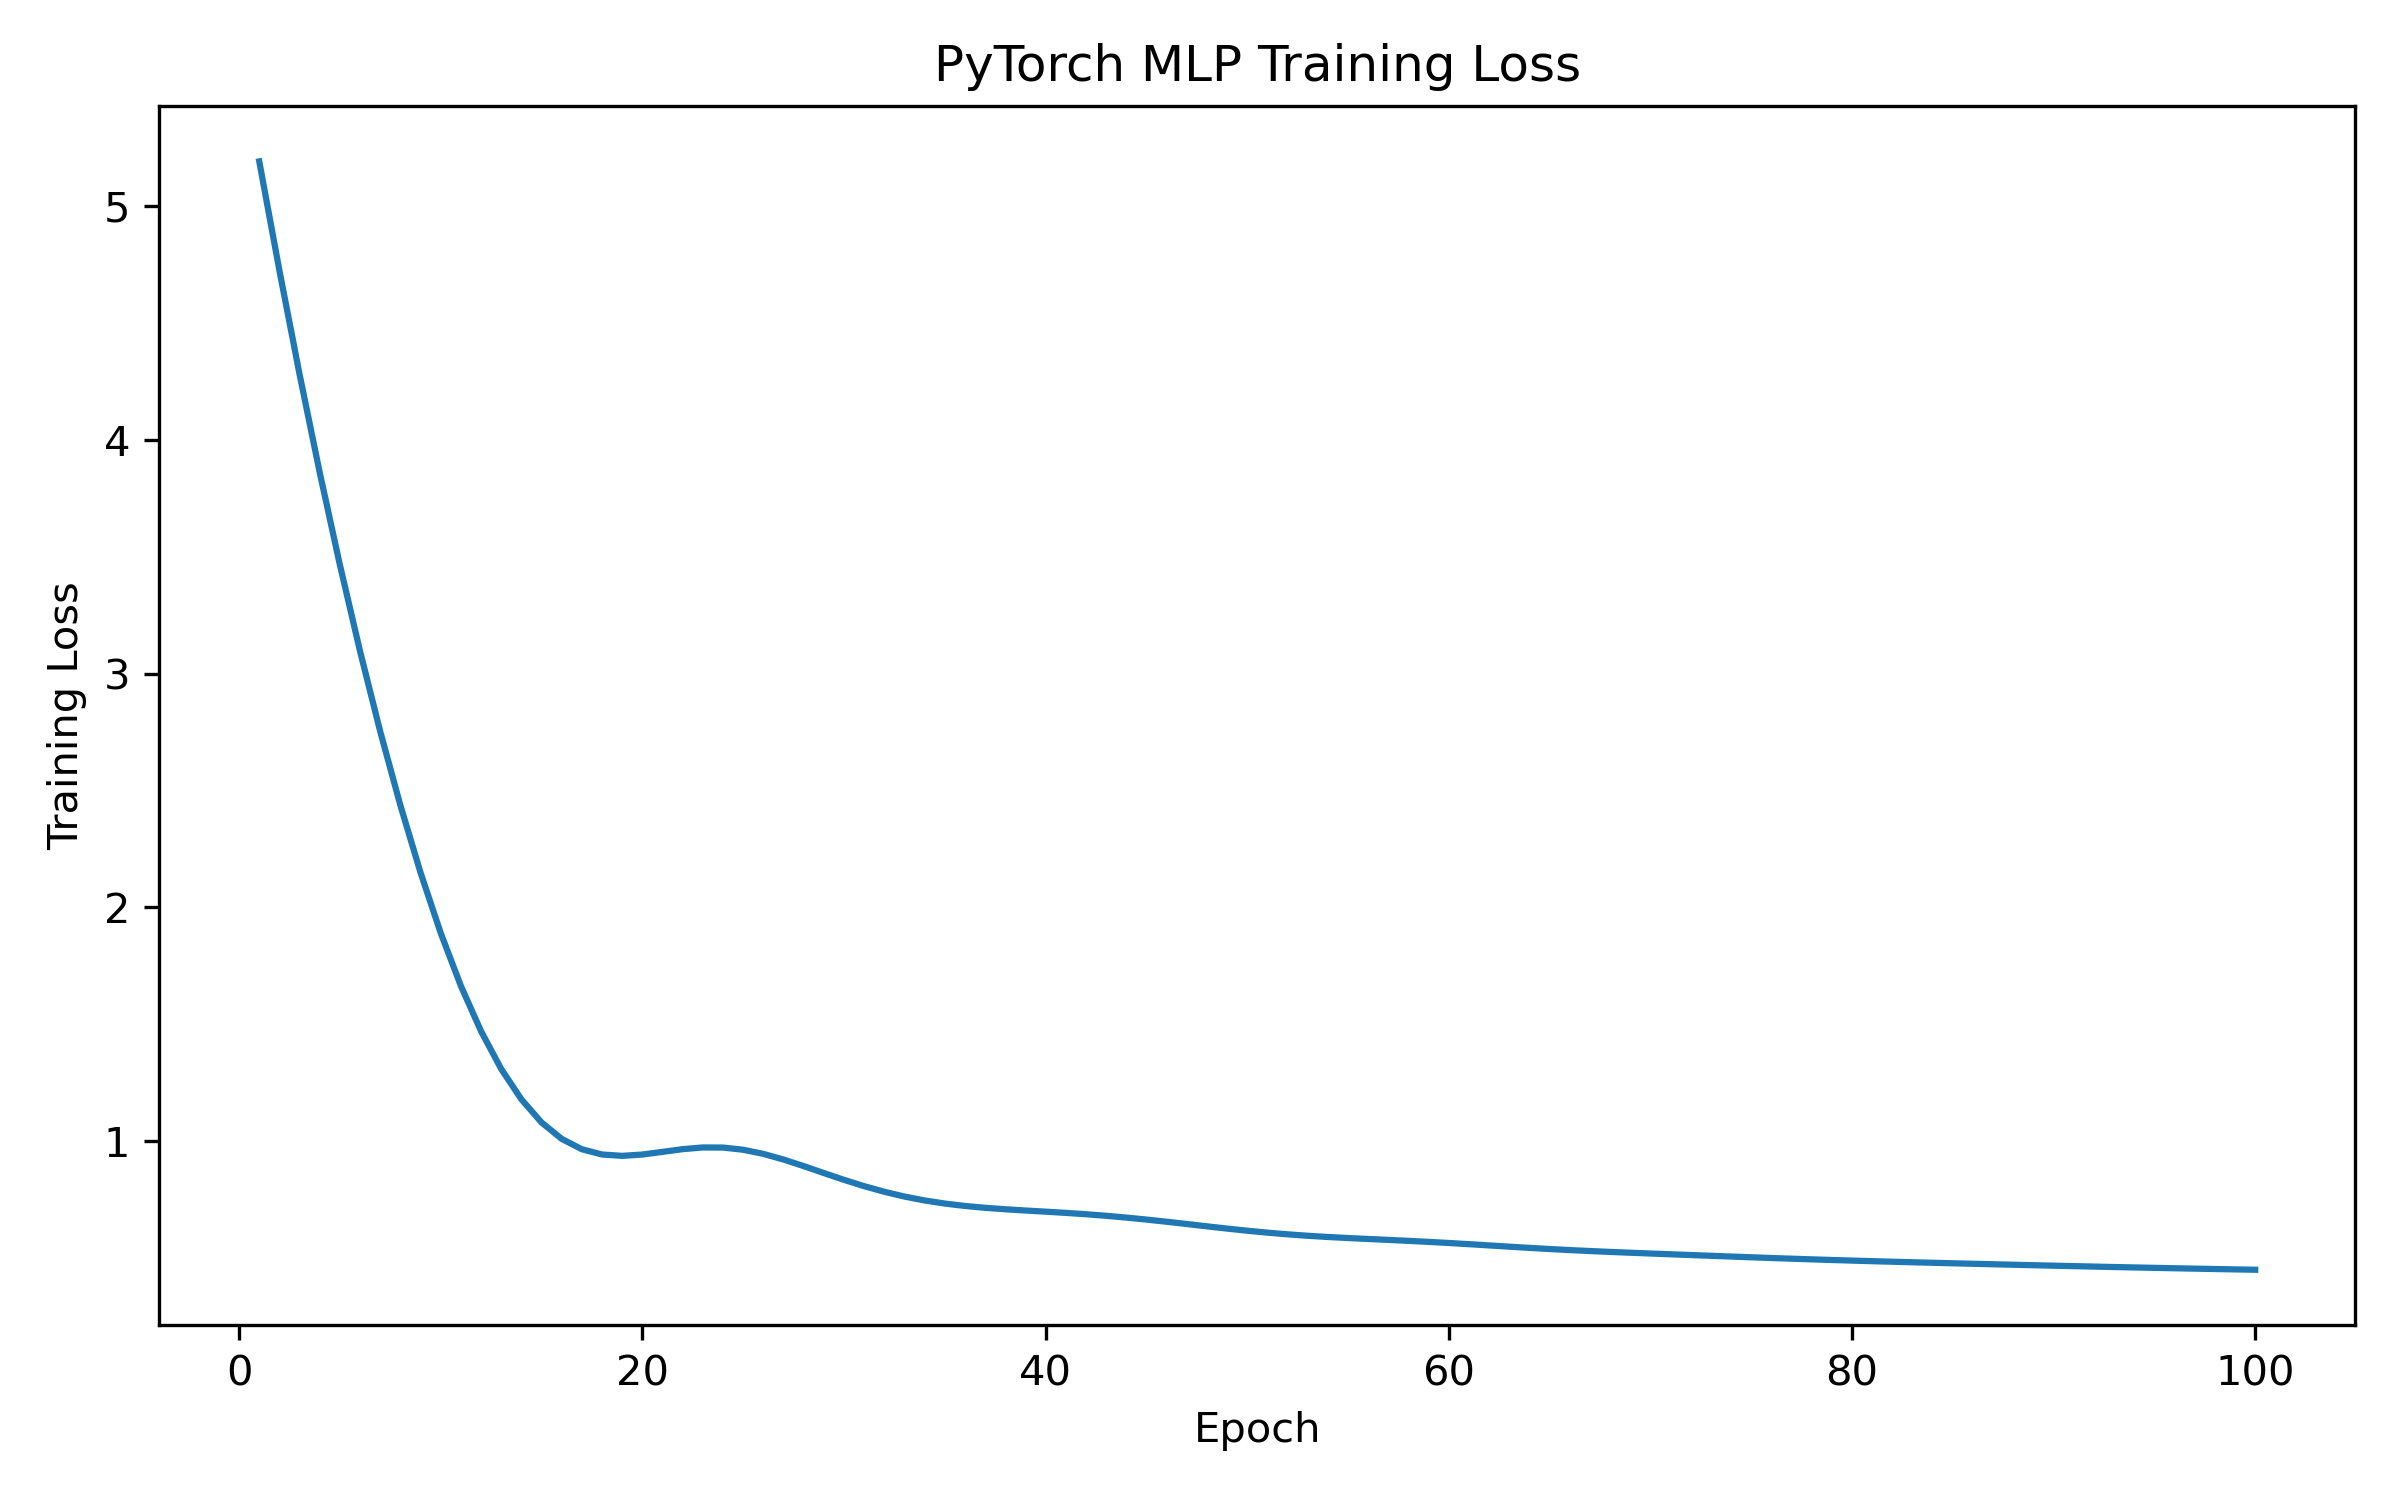
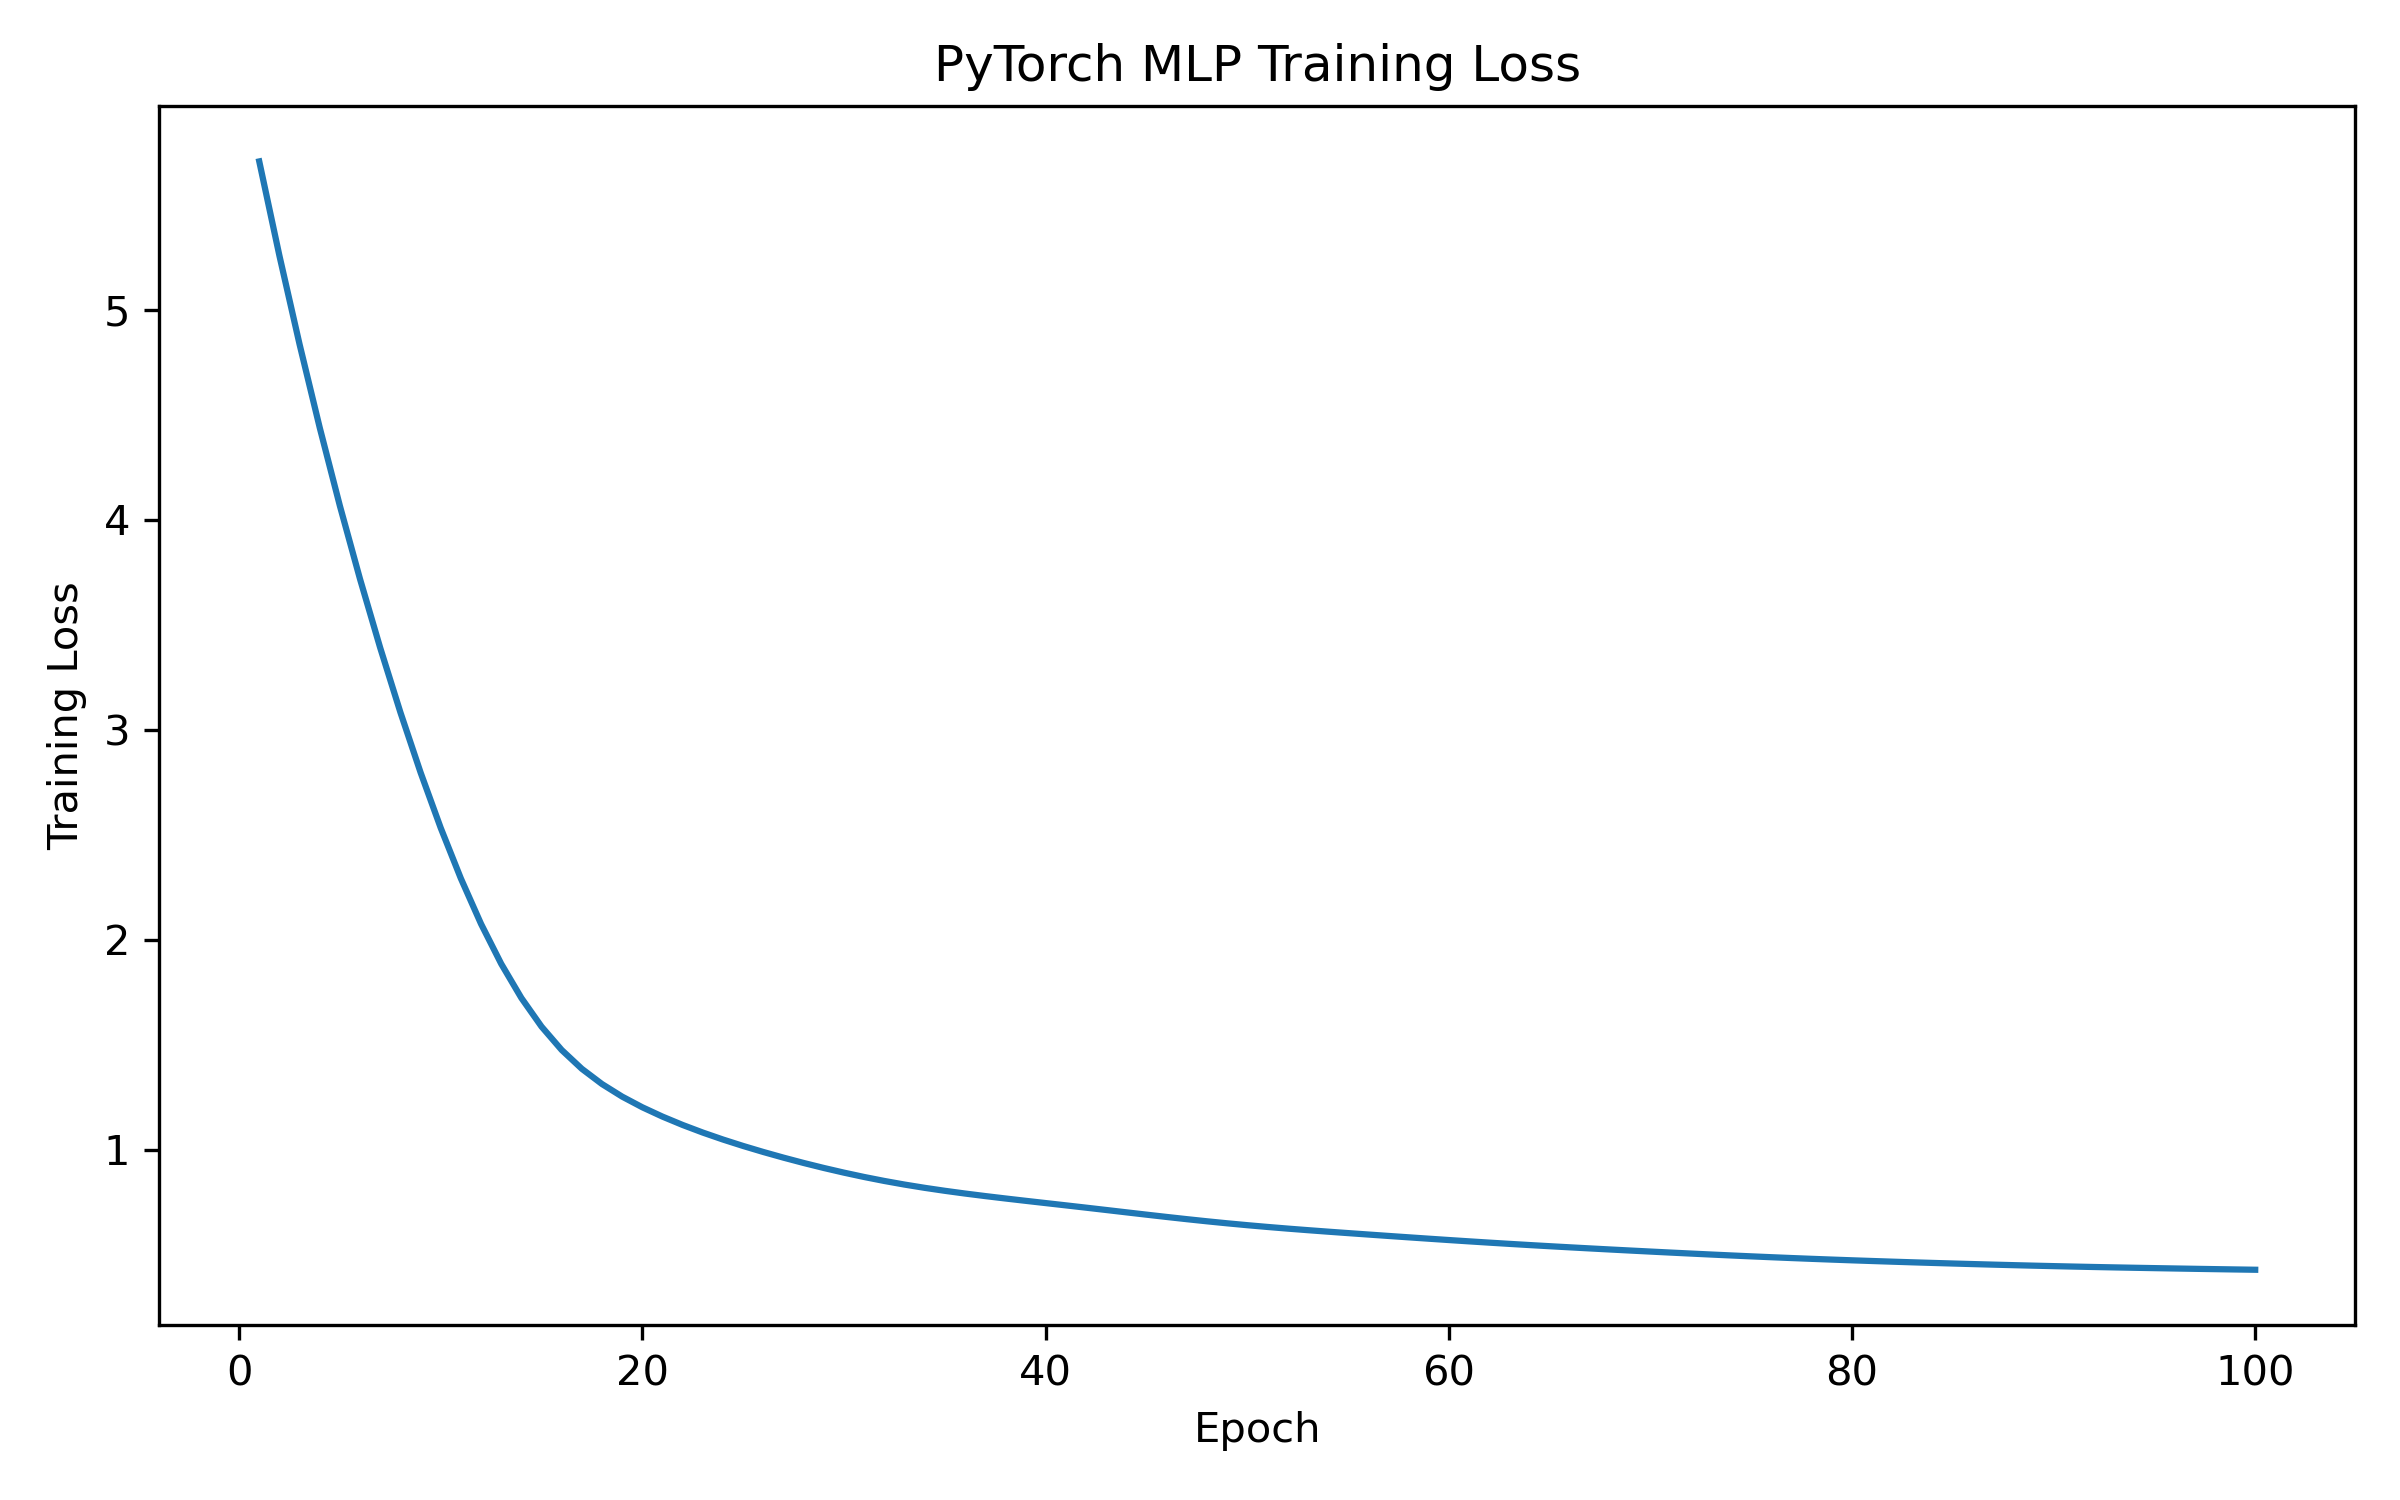
added updates to assignment2

diff --git a/assignment2/hw2.py b/assignment2/hw2.py
@@ -334,7 +334,12 @@ else:
 markdown_fence = "```"
 
 
-readme_content = f"""# California Housing: Model Comparison
+readme_content = f"""
+# First part:
+To run the code go to the folder ./Intro_deep_learning, and run from terminal: python ./hw2.py
+
+# Second part
+# California Housing: Model Comparison
 
 ## Dataset Exploration
 

diff --git a/assignment2/README.md b/assignment2/README.md
@@ -1,3 +1,8 @@
+
+# First part:
+To run the code go to the folder ./Intro_deep_learning, and run from terminal: python ./hw2.py
+
+# Second part
 # California Housing: Model Comparison
 
 ## Dataset Exploration
@@ -109,7 +114,7 @@ Two models were trained:
 | Model | MSE | RMSE | R² |
 |---|---:|---:|---:|
 | Linear Regression | 0.528984 | 0.727313 | 0.594323 |
-| PyTorch MLP | 0.456846 | 0.675904 | 0.649646 |
+| PyTorch MLP | 0.426274 | 0.652896 | 0.673092 |
 
 ### Analysis
 
